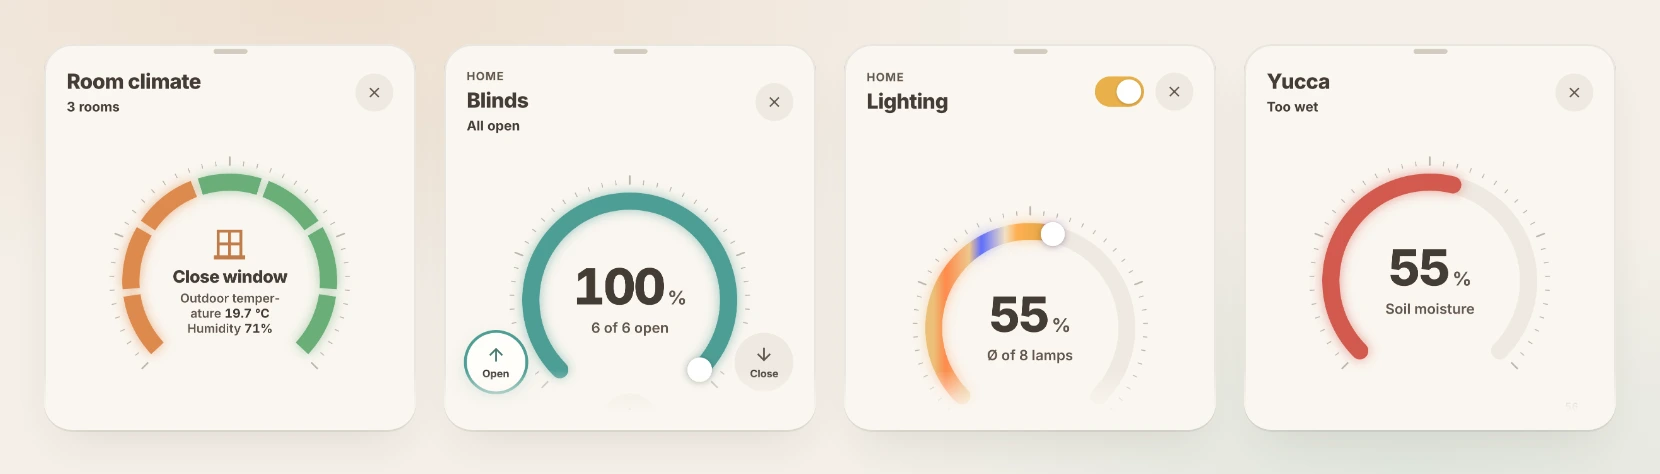
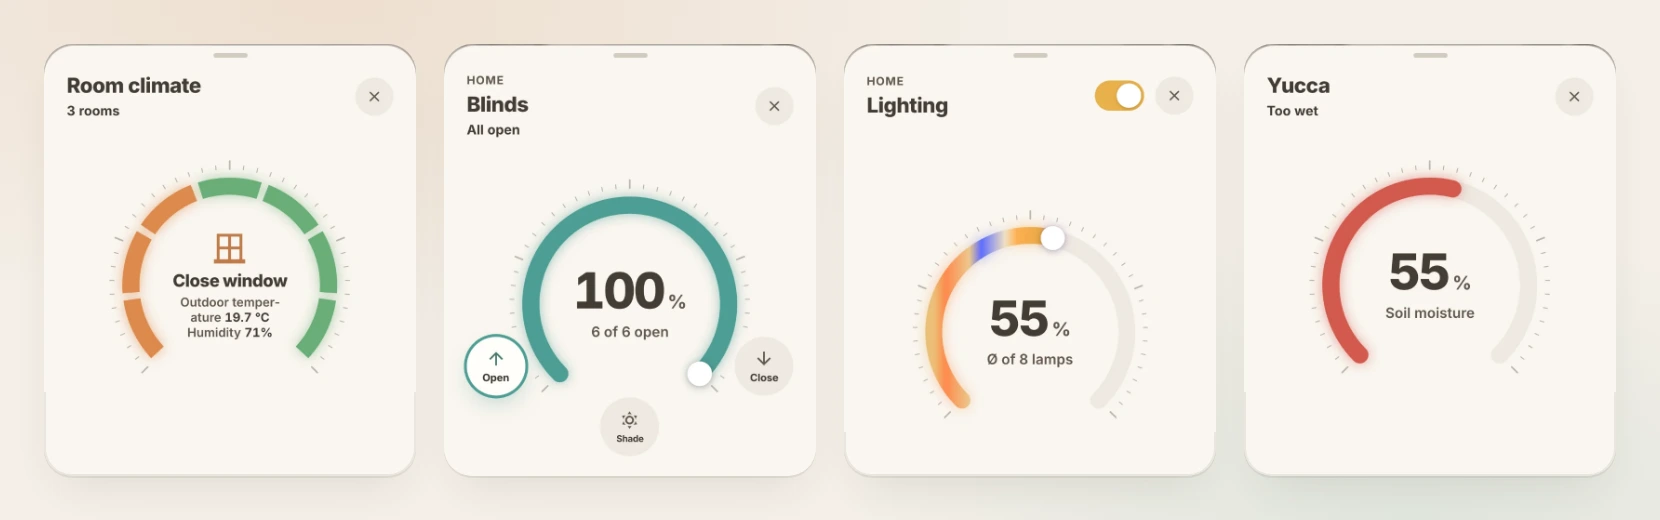
README: home view picture, Studio start page, popups cut below their dial
Claude-Session: https://claude.ai/code/session_01TLmTtYeQmDLn8ETUmm61MJ

diff --git a/README.md b/README.md
@@ -19,6 +19,13 @@ A calm, photo-backed dashboard for Home Assistant that **sets itself up**. Casor
 
 Casora builds on two cards from the Marketplace, **UI eXtension (UIX)** and **button-card**, and needs dashboards in storage mode, the default.
 
+<p align="center">
+  <picture>
+    <source media="(prefers-color-scheme: dark)" srcset="docs/images/casora-desktop-dark.webp" />
+    <img src="docs/images/casora-desktop-light.webp" alt="The Casora home view on a desktop display: the house photo, weather, the badges for security, climate, lighting and energy, and the device tiles." />
+  </picture>
+</p>
+
 ## What a tap shows you
 
 Every popup puts the one thing you opened it for in the middle, usually a large dial, with scenes and modes as round buttons around it and lists beside it.
@@ -111,8 +118,8 @@ Rooms, tiles, badges and popups, changed in place with a live preview for deskto
 
 <p align="center">
   <picture>
-    <source media="(prefers-color-scheme: dark)" srcset="docs/images/readme-studio-dark.webp" />
-    <img src="docs/images/readme-studio-light.webp" alt="Casora Studio on a desktop display: the editor of a plant tile next to the live preview of its popup with the soil moisture dial and the readings." />
+    <source media="(prefers-color-scheme: dark)" srcset="docs/images/casora-studio-dark.webp" />
+    <img src="docs/images/casora-studio-light.webp" alt="Casora Studio: the home view in the live preview, with the switches for desktop, tablet and phone, light and dark, and a tile slot to add." />
   </picture>
 </p>
 
